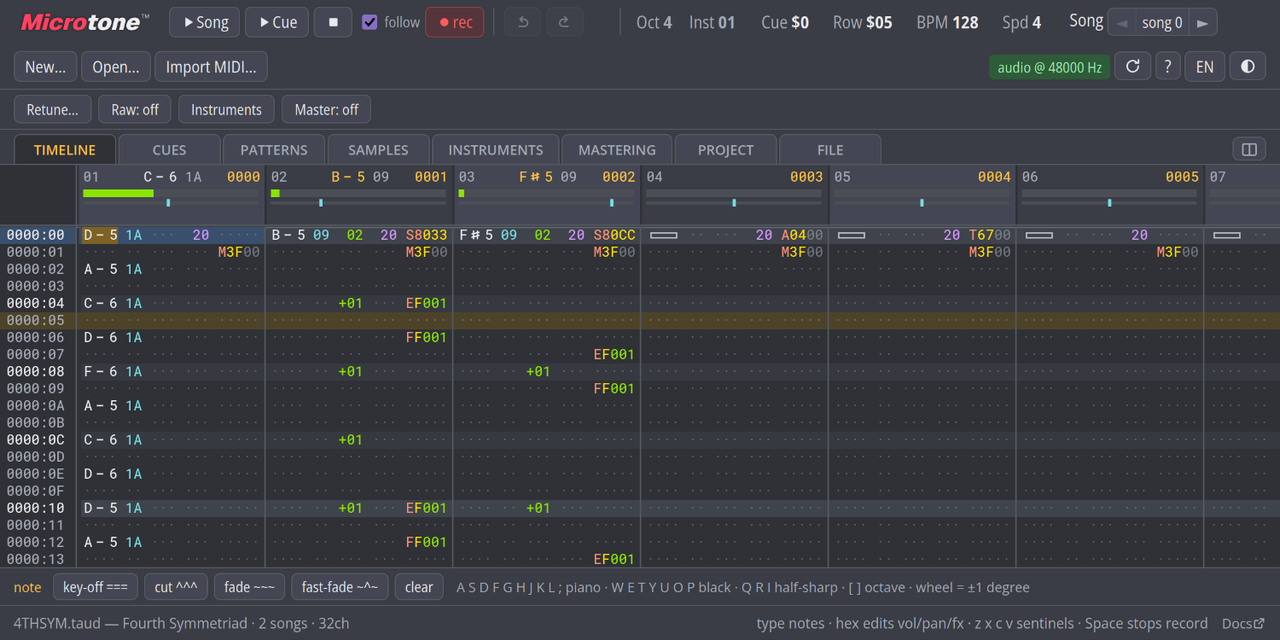
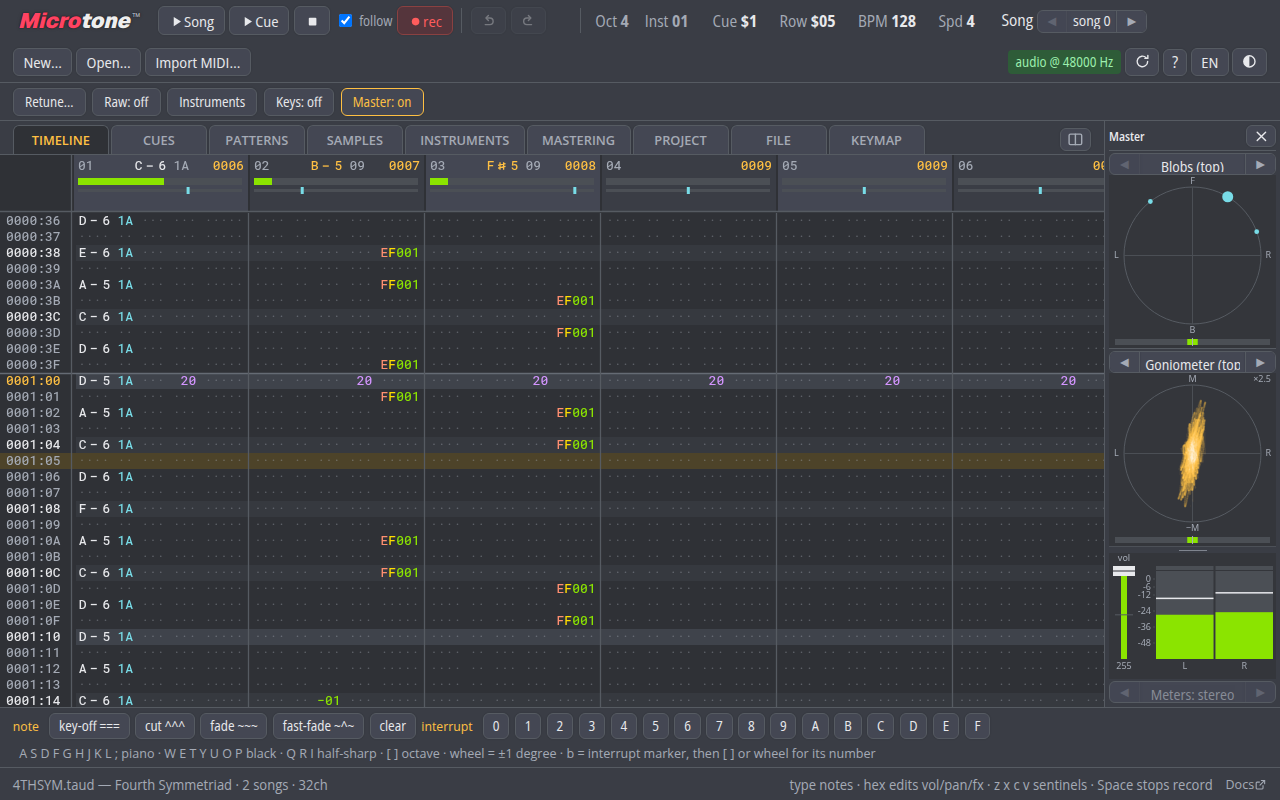
README update

diff --git a/README.md b/README.md
@@ -2,8 +2,142 @@
 
 ![Microtone screenshot](Screenshot1.png)
 
-A web build of the **Microtone** tracker and the **Taud** audio engine from
-[TSVM](https://github.com/curioustorvald/tsvm). Two halves:
+**Microtone** is a music tracker for the notes a piano cannot play. Every pitch
+sits on a grid of 4096 steps per octave, so 12-TET, 19-TET, 31-TET,
+Bohlen–Pierce and a temperament you drew yourself are all the same kind of thing
+to it. Sources can be placed anywhere on the sphere and delivered as ambisonic
+B-format as readily as stereo. It runs in a browser tab, and that is the entire
+install.
+
+## Try it
+
+Simply visit **[microtone.cc](https://microtone.cc)** and start tracking; no
+strings attached. There is no account and no server side — projects live in your
+browser's private storage, and even MIDI and module conversion happens on your
+own machine. Three demo songs sit on the welcome screen if you would rather hear
+it before writing anything, the **?** button opens the keyboard reference, and
+the [full manual](https://microtone.cc/docs.html) is inside the app.
+
+### What it does
+
+- **Any tuning, not just the twelve.** Pick a notation preset — 12, 19, 24, 31,
+  41-TET (with Kite glyphs), Shi'er lü, Bohlen–Pierce — or draw your own in the
+  Notation Maker, and the editor snaps entry, display and stepping to its
+  degrees. Retune a whole song between tunings without rewriting it.
+- **Opens what you already have.** `.taud` is the native project; `.mod`,
+  `.s3m`, `.xm`, `.it`, `.mon` and AdLib `.ims` are converted on the fly, and
+  **Import MIDI…** renders a `.mid` through a SoundFont. A General MIDI bank and
+  an AdLib bank ship with the app, so an import sounds without you hunting for
+  one first.
+- **Space, not merely width.** A song chooses stereo, planar 360° or the full
+  sphere, and the pan column carries a real angle. Export stereo, quadraphonic,
+  5.1, 7.1 or ambisonic B-format (first to third order, AmbiX with ADM
+  metadata) — or stems, one mono WAV per track in a single ZIP.
+- **Master it in the same window.** Trim, high-pass, EQ, compressor and limiter,
+  with loudness, true-peak, crest and gain-reduction metering, and an offline
+  analysis of the whole song. The chain you hear is the chain the export
+  renders through.
+- **Instruments that are more than samples.** Envelopes, filters, panning and
+  note-stealing rules per instrument, plus metainstruments — a *Layered* kit
+  that sounds several instruments side by side, or an *FM Rack* that wires them
+  into one another.
+- **Your keyboard becomes the instrument.** Forty keys laid out as an isomorphic
+  lattice — Bosanquet–Wilson, Wicki–Hayden, Harmonic Table and more — fitted to
+  whatever tuning the song is in.
+
+## A look around
+
+![](Screenshot2.png)
+
+**Cues** are the song's order list. A Taud pattern belongs to a single channel,
+so every voice gets its own column and its own pattern number on every row: the
+bassline can hold for sixteen cues while the lead changes on each one. The two
+command columns on the left carry the flow — jump, halt, cue length — and a
+whole run of them can be filled in one step.
+
+![](Screenshot3.png)
+
+The **pattern editor** puts several patterns side by side, which is how you write
+against something that already exists: keep the part you are answering in view,
+copy a phrase out of one column and into the next, or edit two voices of the
+same passage without losing your place in either.
+
+![](Screenshot4.png)
+
+The **sample bin**, mid-song. The orange in this waveform is Invert Loop
+(`S $F0xx`) at work — the effect walks through the loop region flipping one
+byte at a time, and every byte it has touched so far is tinted live as the song
+plays. Nothing is written to the file: stop the transport and the sample is
+exactly as it was.
+
+![](Screenshot5.png)
+
+The **instrument editor** is the main work panel. Each instrument is a sample
+plus its volume, panning, filter, vibrato and note-stealing behaviour; the
+tabs above carry its envelopes and its zone map. The badges in the list say
+where an instrument came from — `META` for a metainstrument, `IXMP` for a
+SoundFont patch and the number of pitch × velocity zones it brought with it.
+
+![](Screenshot6.png)
+
+The **mastering tab**, metering a song as it plays. Microtone lets you write and
+master the piece in one application: the rack down the left is the delivery
+chain, the meters on the right are the ones a mastering engineer asks for —
+short-term and integrated loudness, loudness range, true peak, crest against its
+allpassed twin — and the same chain is what an export renders through.
+
+![](Screenshot7.png)
+
+The **project tab** holds everything about the piece that is not a note: tempo
+and meter, global and mixing volume, the tuning reference and its frequency, the
+panning model, the display notation, and the message that travels inside the
+file. Housekeeping tools for the whole project live at the bottom of it.
+
+![](Screenshot8.png)
+
+The **keymap tab** turns a computer keyboard into a 40-key isomorphic
+microtonal instrument. This is Bosanquet–Wilson fitted to 19-TET: all nineteen
+degrees fall under the fingers, each cap says what it plays in the song's own
+notation and how far that is from 12-TET, and the colour bands repeating across
+the board *are* the isomorphism. Layouts are yours rather than the song's — they
+travel as `.taudkey` files — but a piece that needs a particular one can carry a
+copy of it.
+
+## Just the player — `taudplay`
+
+**If you are here for the playback module rather than the tracker, simply run
+`npm i taudplay`.** No tracker attached.
+
+`taudplay` is the playback half of this engine as a standalone LGPL-3.0 library,
+for pages and games that want to *play* a `.taud` rather than edit one. A file
+rendered there is bit-identical to the same file rendered in the tracker. Its
+whole surface is a transport, **one fader per voice**, **two probes per voice**
+(how loud that channel is right now, and where it sits) and the sixteen
+**interrupts** the song itself fires in time with the music:
+
+```js
+import { TaudPlayer } from "taudplay";
+
+const player = await new TaudPlayer().init();
+await player.load(await (await fetch("theme.taud")).arrayBuffer());
+button.onclick = async () => { await player.resume(); player.play(); };
+
+player.setVoiceGain(LEAD, 0.0, 1200);        // duck the lead over 1.2 s
+player.setInterrupt(0, (n) => spawnEnemy(n)); // let the song cue the game
+```
+
+That is the point of it. A game does not want a pattern editor; it wants to duck
+the lead when the player enters a cave and bring the drums up in combat. A
+tracker song is 32 or 64 channels that were *written together*, so fading them
+against each other gives you contextual scoring for the cost of one file.
+
+`player.html` in this repository is its reference consumer.
+
+---
+
+# For developers
+
+Two halves live here:
 
 - **Taud engine** (`src/engine/`) — a faithful JavaScript translation of the
   tracker engine in TSVM's `AudioAdapter.kt`, running inside an AudioWorklet.
@@ -12,10 +146,6 @@ A web build of the **Microtone** tracker and the **Taud** audio engine from
 - **Microtone tracker** (`src/ui/`) — a native web rewrite of the tracker UI
   (the TSVM `taut.js` is the behavioural reference).
 
-## Try it
-
-Simply visit **[microtone.cc](https://microtone.cc)** and start tracking; no strings attached.
-  
 ## Running locally
 
 No build step. Serve the directory with any static file server:
@@ -25,23 +155,6 @@ npm run serve            # python3 -m http.server 8737
 # then open http://localhost:8737/            (tracker)
 #           http://localhost:8737/player.html (minimal player)
 ```
-
-## taudplay
-
-`src/taudplay/` is a standalone **player** library built out of the same engine:
-a transport, one fader per voice, and two probes per voice (current volume and
-pan), for pages and games that want to *play* a .taud rather than edit one.
-`player.html` is its reference consumer. Regenerate the separate LGPL-3.0 repo
-(and the committed single-file worklet the fallback path loads) with:
-
-```sh
-node tools/make-taudplay.js [outDir]   # default ../../../microtone-taudplay (a sibling checkout)
-```
-
-The engine there is a copy of this one, so **re-run it after any engine
-change** — otherwise the library and the tracker stop agreeing about what a
-song sounds like. Its own suite (`test/taudplay/`) travels with it and asserts
-exactly that.
 
 ## Testing
 
@@ -64,6 +177,21 @@ engine (`tsvm/devtests/webconf/`) over the corpus in `test/corpus/`:
 node tools/render-taud.js test/corpus/WHEN.taud out.pcm
 node tools/compare-pcm.js out.pcm reference.pcm
 ```
+
+## Regenerating taudplay
+
+`src/taudplay/` is authored here; the standalone LGPL-3.0 repository is a
+generated artefact carrying a verbatim copy of the engine. Rebuild it — and the
+committed single-file worklet the non-module-worklet fallback loads — with:
+
+```sh
+node tools/make-taudplay.js [outDir]   # default ../../../microtone-taudplay (a sibling checkout)
+```
+
+The engine there is a copy of this one, so **re-run it after any engine
+change** — otherwise the library and the tracker stop agreeing about what a
+song sounds like. Its own suite (`test/taudplay/`) travels with it and asserts
+exactly that.
 
 ## Layout
 
